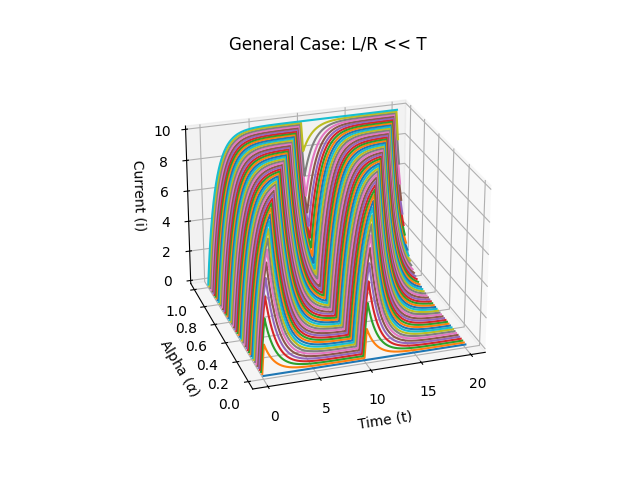
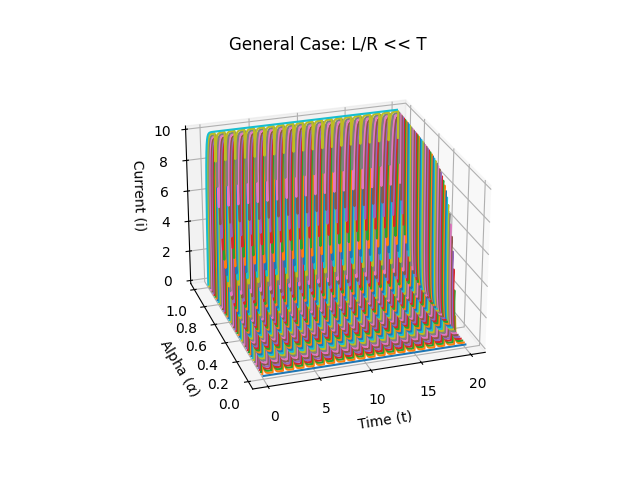
final changes

Changed region(s): [[0.3125, 0.2188, 0.7188, 0.7812]]

diff --git a/comparison.py b/comparison.py
@@ -76,8 +76,8 @@ plt.show()
 
 #errors with the current response of the RL circuit to the fourier series approximation and the numerical methods
 print("Mean Absolute Error in current response of Numerical methods vs Fourier Series\n")
-n = 10000
-t = np.linspace(0, 100, n)
+n = 1000000
+t = np.linspace(0, 10000, n)
 error_forward_euler = np.array(nm.rl_forward_euler(R, L, alpha, amp, T / 10, h, n)[1]) - np.array(fs.compute_current(R, L, w0 * 10, t, alpha))
 error_forward_euler = np.linalg.norm(error_forward_euler, ord = 1)
 print("For Forward Euler:", error_forward_euler / n)

diff --git a/plots_numerical_methods.py b/plots_numerical_methods.py
@@ -13,8 +13,8 @@ r = 1
 l = 1
 amp = 10
 T = 10
-h = 0.001
-n = 100000
+h = 0.01
+n = 1000000
 n_alpha = 20000
 cases = ["<<", "=", ">>"]
 titles = [r"$\alpha = \frac{1}{8}$", r"$\alpha = \frac{1}{2}$", r"$\alpha = \frac{7}{8}$"]
@@ -89,9 +89,4 @@ for i in range(3):
     plt.savefig("figs/general_plot_" + str(i + 1) + ".png")
     plt.show()
 
-    T /= 10
-    if(i == 0):
-        n = 10000
-    elif(i == 1):
-        h = 0.0001
-        n = 50000
+   

diff --git a/spectrum.py b/spectrum.py
@@ -21,7 +21,7 @@ for idx, alpha in enumerate(alpha_vals):
         if val != 0:
             Ck[i] = np.abs((20 / (np.pi * val)) * np.sin(np.pi * val * alpha))
         else:
-            Ck[i] = 19.5
+            Ck[i] = 10 * alpha
 
     if idx < 3:  # First 3 plots in the first row
         ax = fig.add_subplot(gs[0, idx])
